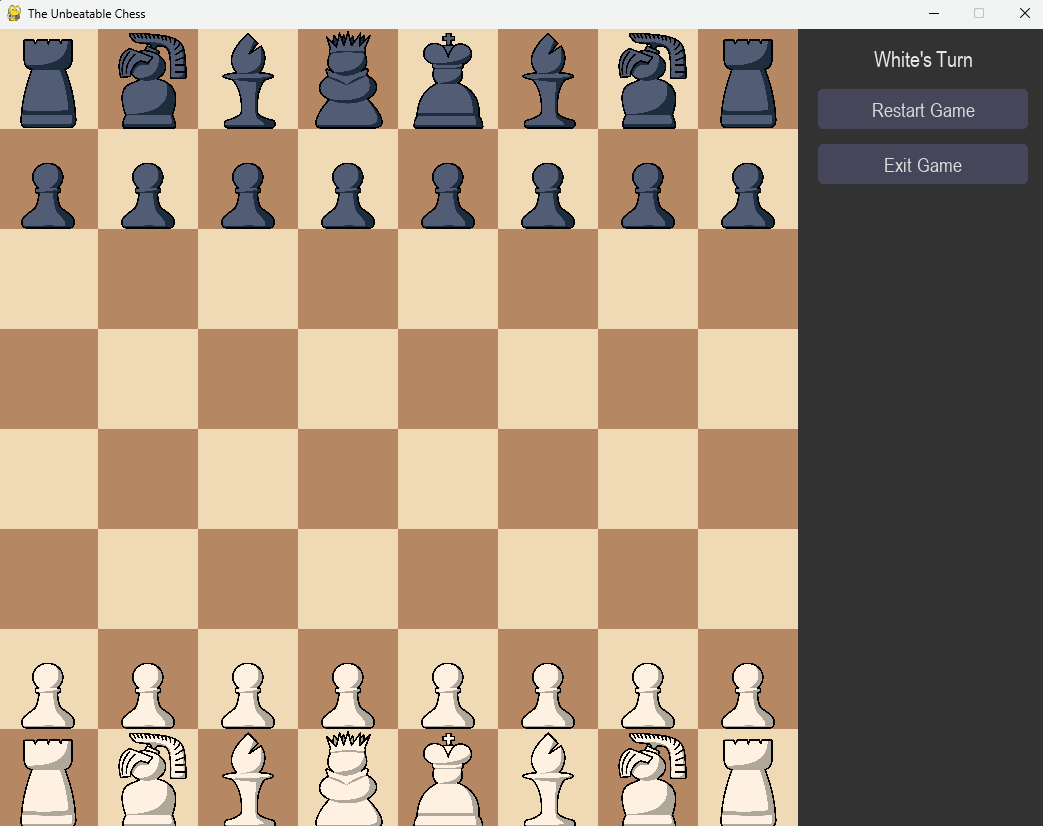
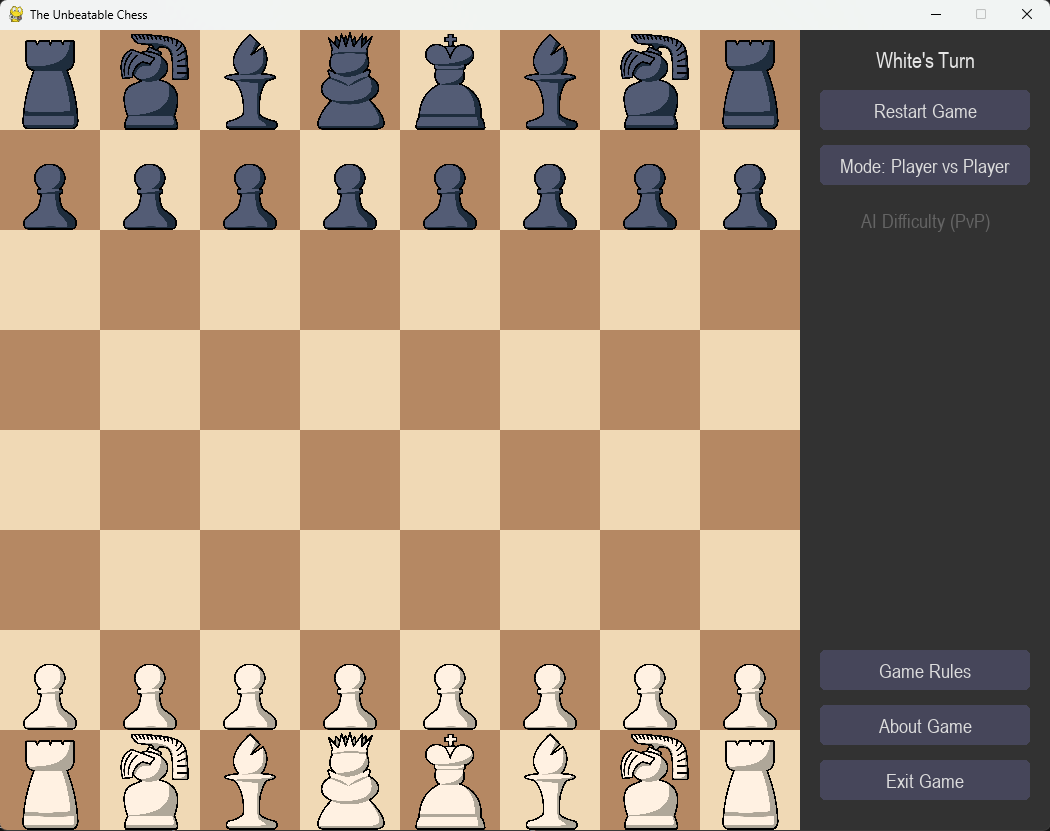
README updated

diff --git a/src/board.py b/src/board.py
@@ -51,7 +51,7 @@ class Board:
         self.pending_move = None
 
         self.stockfish_engine = None
-        self._init_stockfish_engine() # Call to the method
+        self._init_stockfish_engine() 
 
         try:
             if not pygame.font.get_init(): pygame.font.init()
@@ -78,15 +78,13 @@ class Board:
         self.show_restart_confirmation = False 
         self._update_status_message()
 
-    # ADD THIS METHOD BACK
     def _init_stockfish_engine(self):
         """Initializes the Stockfish engine if the path is valid."""
         if STOCKFISH_PATH and os.path.exists(STOCKFISH_PATH):
             try:
                 self.stockfish_engine = chess.engine.SimpleEngine.popen_uci(STOCKFISH_PATH)
                 print(f"Stockfish engine initialized successfully from: {STOCKFISH_PATH}")
-                # Set initial skill level based on current_ai_difficulty
-                skill = STOCKFISH_SKILL_LEVELS.get(self.current_ai_difficulty, STOCKFISH_SKILL_LEVELS["Medium"]) # Fallback
+                skill = STOCKFISH_SKILL_LEVELS.get(self.current_ai_difficulty, STOCKFISH_SKILL_LEVELS["Medium"]) 
                 self.stockfish_engine.configure({"Skill Level": skill})
                 print(f"Stockfish initial skill level set to: {skill} ({self.current_ai_difficulty})")
             except Exception as e:
@@ -106,8 +104,10 @@ class Board:
         button_width = SIDE_PANEL_WIDTH - 40
         button_height = 40
         spacing = 15
-        current_y = 30 
-        current_y += 30 
+        
+        # Buttons at the top of the side panel
+        current_y = 30  # Initial Y for status text area
+        current_y += 30 # Space for status text, then start buttons
 
         self.restart_button = Button(panel_x, current_y, button_width, button_height,
                                      text="Restart Game", action=self._handle_restart_click)
@@ -122,24 +122,30 @@ class Board:
         self.ai_difficulty_button = Button(panel_x, current_y, button_width, button_height,
                                            text="AI Difficulty", action=self._cycle_ai_difficulty)
         self.buttons.append(self.ai_difficulty_button)
-        current_y += button_height + spacing
+        # current_y += button_height + spacing # No need to increment current_y further for top buttons
 
-        self.rules_button = Button(panel_x, current_y, button_width, button_height,
-                                   text="Game Rules", action=self._show_rules_overlay)
-        self.buttons.append(self.rules_button)
-        current_y += button_height + spacing
-        
-        self.about_button = Button(panel_x, current_y, button_width, button_height,
-                                   text="About Game", action=self._show_about_overlay)
-        self.buttons.append(self.about_button)
-
-        exit_button_y = HEIGHT - button_height - 30 
+        # Buttons at the bottom of the side panel (Rules, About, Exit)
+        # Position Exit button first from the bottom
+        exit_button_y = HEIGHT - button_height - 30 # 30px padding from bottom
         self.exit_button = Button(panel_x, exit_button_y, button_width, button_height,
                                   text="Exit Game", action=self._handle_exit_click)
-        self.buttons.append(self.exit_button) 
+        self.buttons.append(self.exit_button)
+
+        # Position About button above Exit
+        about_button_y = exit_button_y - button_height - spacing
+        self.about_button = Button(panel_x, about_button_y, button_width, button_height,
+                                   text="About Game", action=self._show_about_overlay)
+        self.buttons.append(self.about_button)
+        
+        # Position Rules button above About
+        rules_button_y = about_button_y - button_height - spacing
+        self.rules_button = Button(panel_x, rules_button_y, button_width, button_height,
+                                   text="Game Rules", action=self._show_rules_overlay)
+        self.buttons.append(self.rules_button)
 
         self._update_ai_difficulty_button_state()
 
+        # Confirmation Buttons for restart (screen relative positions)
         confirm_btn_y = BOARD_HEIGHT // 2 + 20 
         self.confirm_yes_button = Button(BOARD_WIDTH // 2 - 110, confirm_btn_y, 100, 40, "Yes",
                                          color=BUTTON_WARN_COLOR, hover_color=BUTTON_WARN_HOVER_COLOR,
@@ -148,6 +154,7 @@ class Board:
                                         color=BUTTON_COLOR, hover_color=BUTTON_HOVER_COLOR,
                                         text_color=BUTTON_TEXT_COLOR, action=self._cancel_restart_confirmation)
         
+        # Overlay Close Button (position will be set when overlay is drawn)
         self.overlay_close_button = Button(0, 0, 100, 30, "Close", action=self._close_text_overlay)
 
 
@@ -176,7 +183,7 @@ class Board:
                 elif not paragraphs and len(lines) == 1: 
                      paragraphs.append("(No additional content)")
         except FileNotFoundError:
-            print(f"Error: Text file not found: {filename}")
+            print(f"Error: Text file not found: {filepath}") # Show full path in error
             title = f"File Not Found: {filename}"
         except Exception as e:
             print(f"Error reading text file {filename}: {e}")
@@ -302,8 +309,6 @@ class Board:
         if self.is_animating: return False
 
         if self.active_overlay_type in [OVERLAY_RULES, OVERLAY_ABOUT]:
-            # Check if overlay_close_button has screen_rect, otherwise use its default rect
-            # This assumes overlay_close_button.rect is updated to screen coords when drawn
             close_button_rect = self.overlay_close_button.screen_rect if hasattr(self.overlay_close_button, 'screen_rect') else self.overlay_close_button.rect
             if self.overlay_close_button and close_button_rect.collidepoint(pos):
                 if self.overlay_close_button.action:
@@ -646,19 +651,22 @@ class Board:
 
         close_btn_width = 100
         close_btn_height = 30
-        # Position close button on the overlay_surface
+        
+        # Position close button on the overlay_surface (local coordinates)
         self.overlay_close_button.rect.width = close_btn_width
         self.overlay_close_button.rect.height = close_btn_height
         self.overlay_close_button.rect.centerx = overlay_rect_on_screen.width // 2
         self.overlay_close_button.rect.bottom = overlay_rect_on_screen.height - 20
         
-        # Store screen_rect for click detection
+        # Store screen_rect for click detection (global coordinates)
         self.overlay_close_button.screen_rect = pygame.Rect(
             self.overlay_close_button.rect.left + overlay_rect_on_screen.left,
             self.overlay_close_button.rect.top + overlay_rect_on_screen.top,
             close_btn_width, close_btn_height
         )
-        self.overlay_close_button.draw(overlay_surface) # Draw on the local overlay surface
+        # Draw the button on the local overlay_surface using its local rect
+        self.overlay_close_button.draw(overlay_surface) 
+        
         screen.blit(overlay_surface, overlay_rect_on_screen.topleft)
 
 
@@ -672,7 +680,6 @@ class Board:
         self.draw_animated_piece(screen) 
         self.draw_side_panel(screen)     
         
-        # Draw overlays on top of game over, but game over on top of board
         self.draw_game_over_display(screen) 
         
         if self.active_overlay_type in [OVERLAY_RULES, OVERLAY_ABOUT]:
@@ -682,35 +689,27 @@ class Board:
 
 
     def handle_button_events(self, event):
-        # This method is primarily for hover state updates for main buttons.
-        # Click actions are now mostly handled by the Button class itself or specific logic in main.py.
         if event.type == pygame.MOUSEMOTION:
             for button in self.buttons:
-                button.handle_event(event) # Updates is_hovered for main buttons
-
-            # Hover for overlay close button
+                button.handle_event(event) 
             if self.active_overlay_type in [OVERLAY_RULES, OVERLAY_ABOUT] and self.overlay_close_button:
                 if hasattr(self.overlay_close_button, 'screen_rect'):
                     self.overlay_close_button.is_hovered = self.overlay_close_button.screen_rect.collidepoint(event.pos)
-                else: # Fallback if screen_rect not set (should be set during draw)
+                else: 
                     self.overlay_close_button.is_hovered = self.overlay_close_button.rect.collidepoint(event.pos)
-            
-            # Hover for restart confirmation buttons
             if self.show_restart_confirmation:
                 self.confirm_yes_button.is_hovered = self.confirm_yes_button.rect.collidepoint(event.pos)
                 self.confirm_no_button.is_hovered = self.confirm_no_button.rect.collidepoint(event.pos)
-            return False # MOUSEMOTION doesn't "consume" a click in the context of main loop
-
+            return False 
+        
         if event.type == pygame.MOUSEBUTTONDOWN and event.button == 1:
-            # Check main UI buttons first
             for button in self.buttons:
-                # The Button's handle_event will call the action if clicked
                 if button.handle_event(event): 
-                    return True # Click was handled by a main UI button
+                    return True 
             
-            # If an overlay is active, its close button click is handled in handle_click_on_board_or_dialog
-            # If restart confirmation is active, its buttons are handled in handle_click_on_board_or_dialog
-            # This method now primarily signals if a main UI button was clicked.
+            # Click handling for overlay close button and restart confirmation buttons
+            # is now inside handle_click_on_board_or_dialog, which is called
+            # from main.py if handle_button_events returns False.
             
         return False 
 
